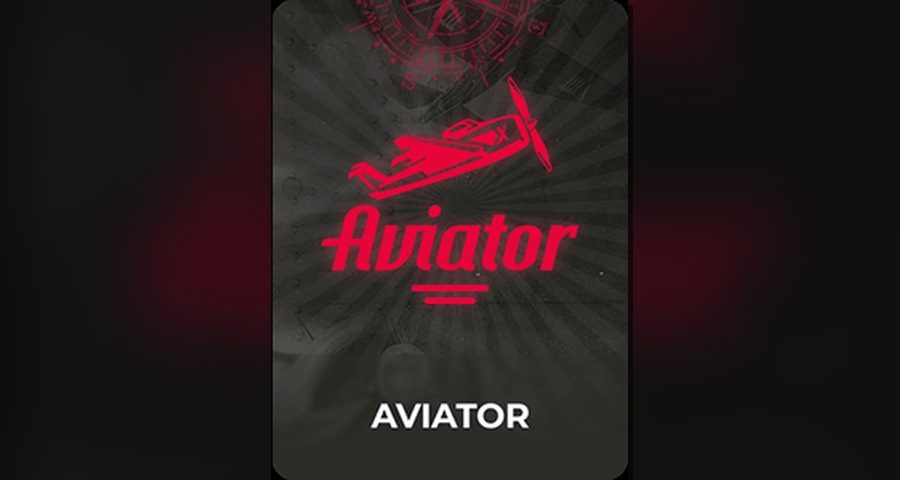
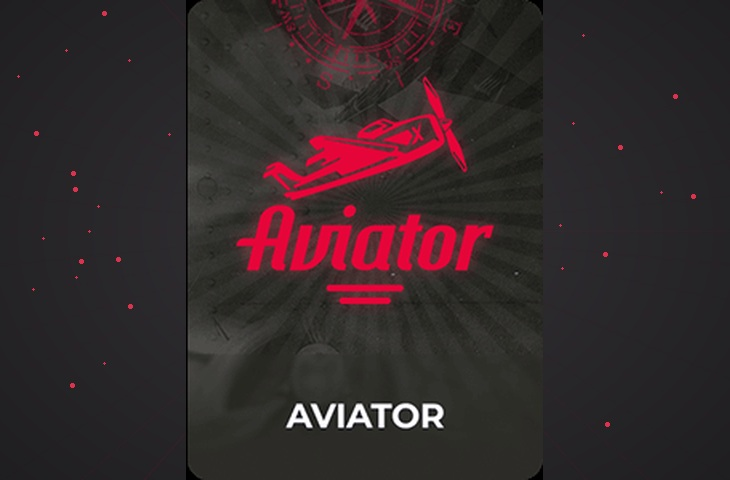
Add files via upload

diff --git a/style.css b/style.css
@@ -1959,3 +1959,27 @@ body.dark-mode .wl-card,body.dark-mode .wl-menu,body.dark-mode .wl-tiles button,
     aspect-ratio:15 / 8;
   }
 }
+
+/* Games chooser only: full-width artwork with no embedded blurred side gutters. */
+.cc-chooser .cc-card-art.cc-art-image{
+  width:100%;
+  height:auto;
+  min-height:0;
+  aspect-ratio:73 / 48;
+  padding:0;
+  overflow:hidden;
+  display:block;
+  background:#17131e;
+}
+.cc-chooser .cc-card-art.cc-art-image img{
+  display:block;
+  width:100%;
+  height:100%;
+  max-width:none;
+  max-height:none;
+  object-fit:cover;
+  object-position:center;
+}
+@media(max-width:600px){
+  .cc-chooser .cc-card-art.cc-art-image{height:auto;min-height:0;aspect-ratio:73 / 48;}
+}
